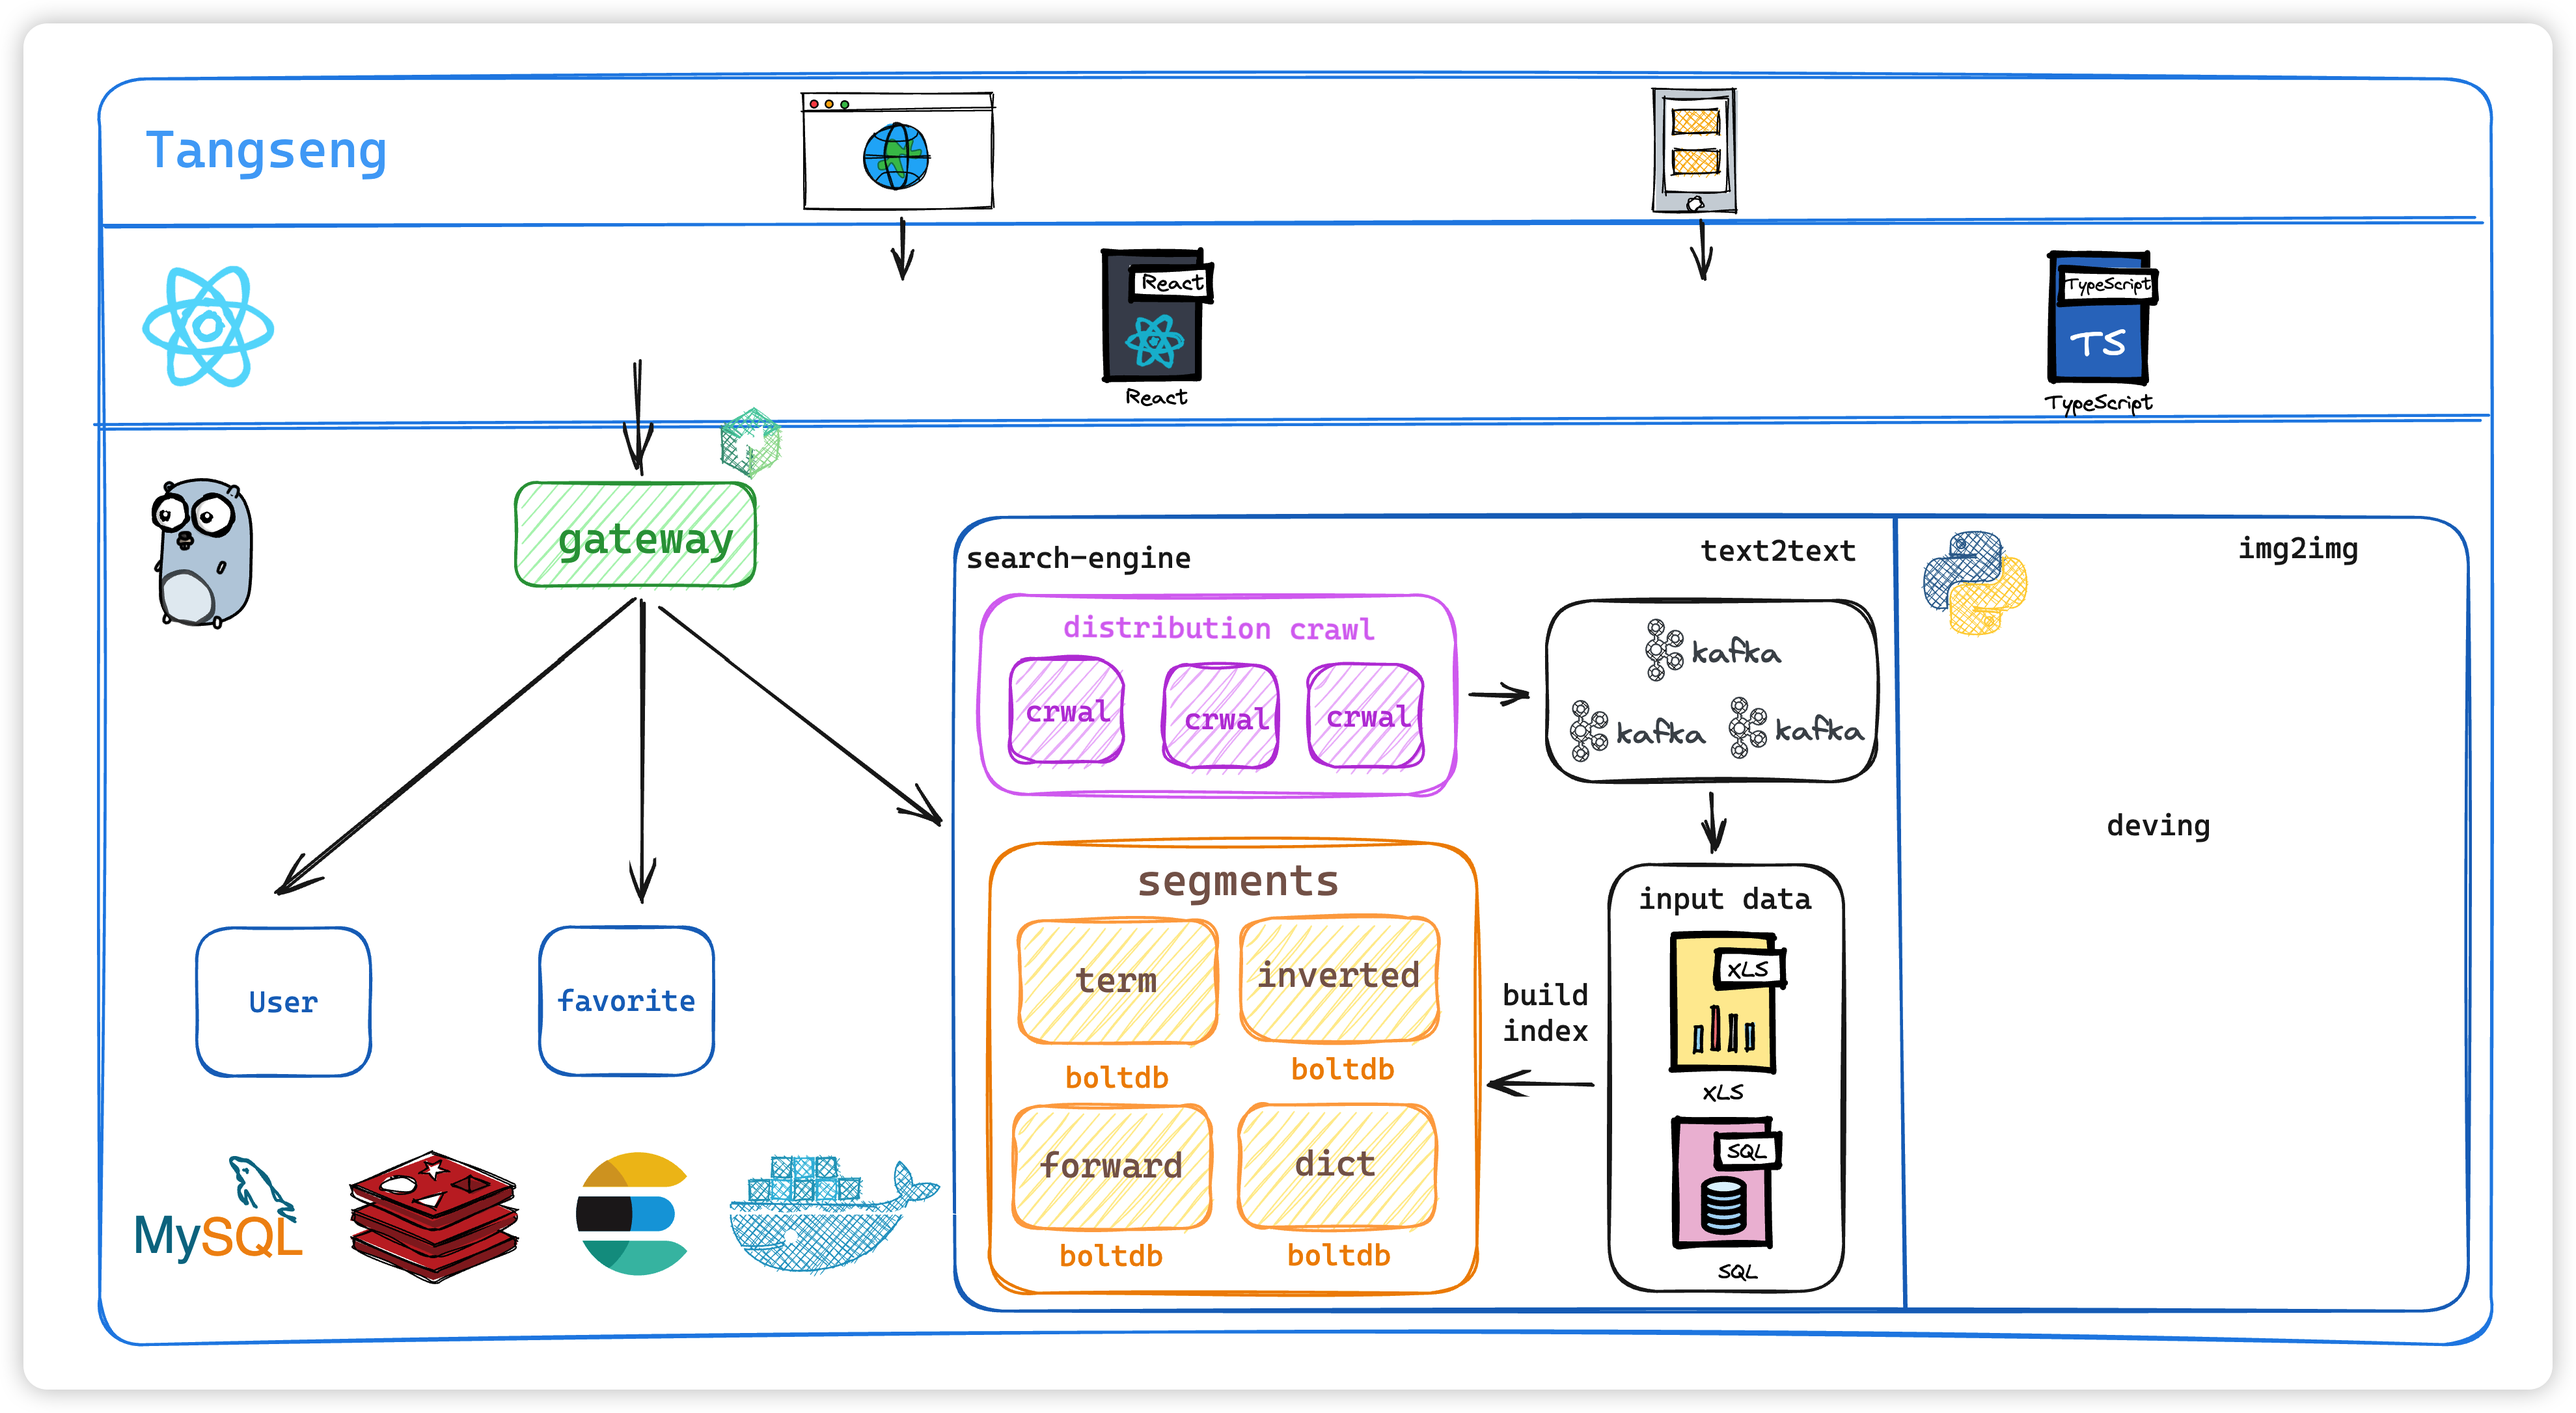
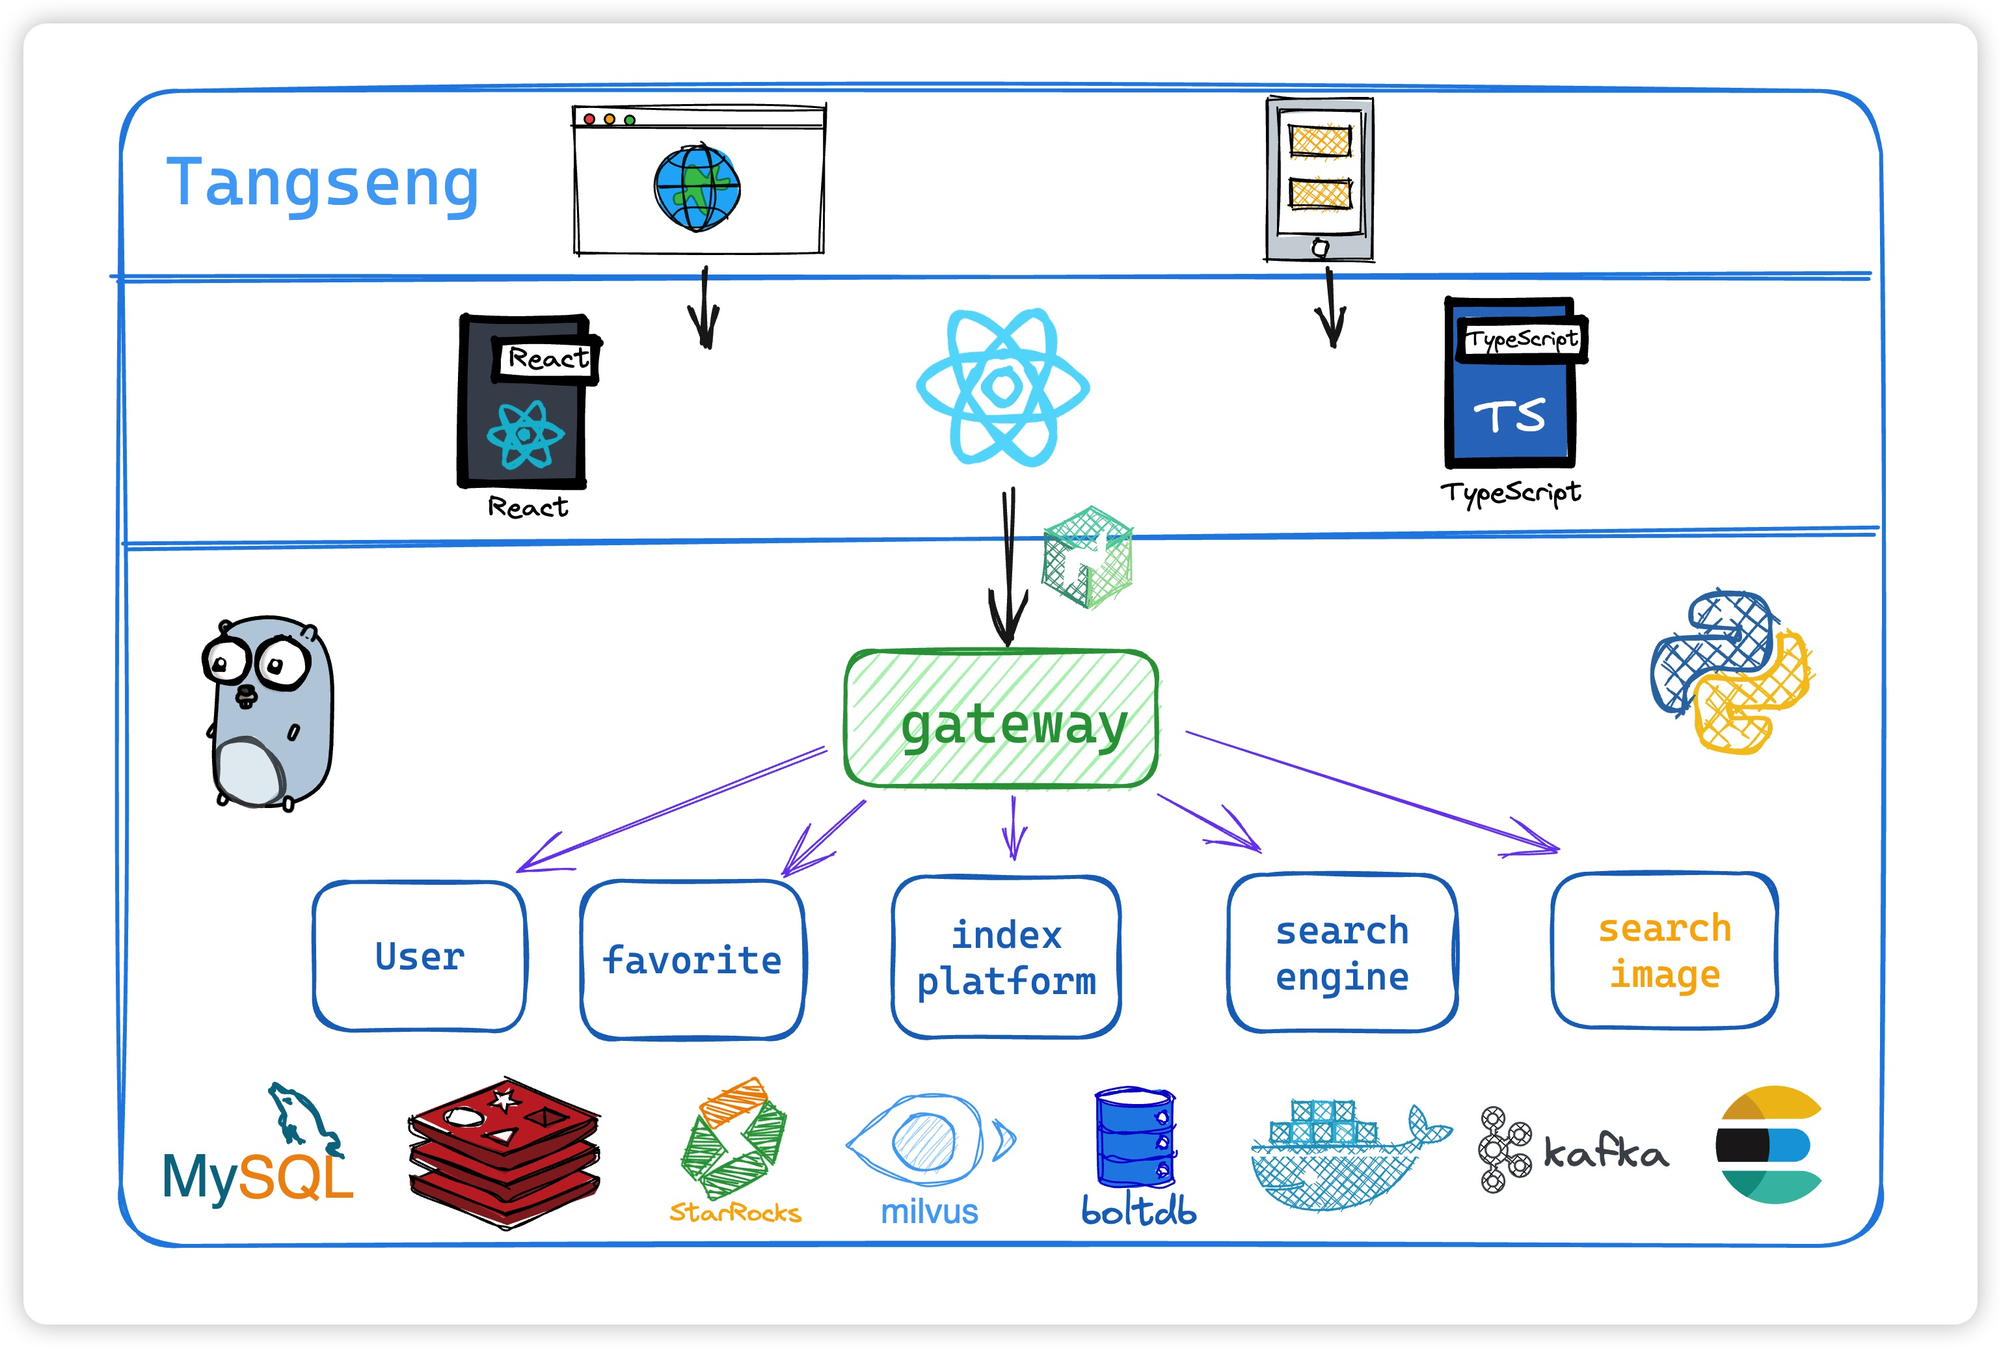
update:README.md

diff --git a/README.md b/README.md
@@ -3,11 +3,10 @@
 # 项目大体框架
 
 1、gin作为http框架，grpc作为rpc框架，etcd作为服务发现。\
-2、总体服务分成`用户模块`、`收藏夹模块`、`搜索引擎模块`。\
-3、用户模块和收藏夹模块使用共同的数据库。\
-4、分布式爬虫爬取数据，并发送到kafka集群中，再落库消费。 \
-5、搜索引擎模块的文本搜索单独设立使用boltdb存储index。\
-6、图片搜索待定...
+2、总体服务分成`用户模块`、`收藏夹模块`、`索引平台`、`搜索引擎(文字模块)`、`搜索引擎(图片模块)`。\
+3、分布式爬虫爬取数据，并发送到kafka集群中，再落库消费。 \
+4、搜索引擎模块的文本搜索单独设立使用boltdb存储index。\
+5、图片搜索待定...
 
 ![项目大体框架](doc/tangseng.png)
 
@@ -30,7 +29,7 @@
 ### 3.1 文本检索
 
 > * x.inverted 存储倒排索引文件
-> * x.dict 存储词典trie树
+> * x.trie_tree 存储词典trie树
 
 #### 正排库
 
@@ -51,7 +50,7 @@
 
 - [ ] 引入降级熔断
 - [ ] 引入jaeger进行链路追踪
-- [ ] 引入skywalking进行监控
+- [ ] 引入skywalking or prometheus进行监控
 - [ ] 抽离dao的init，用key来获取相关数据库实例
 
 #### 2.功能相关
@@ -59,6 +58,9 @@
 - [x] 构建索引的时候太慢了.后面加上并发，建立索引的地方加上并发
 - [ ] 索引压缩，inverted index，也就是倒排索引表，后续改成存offset,用mmap
 - [x] 相关性的计算要考虑一下，TFIDF，bm25
+- [x] 使用前缀树存储联想信息
+- [ ] 哈夫曼编码压缩前缀树
+- [ ] inverted 和 trie tree 的存储支持一致性hash分片存储
 - [ ] 词向量，pagerank
 - [x] 分词加入ik分词器
 - [x] 构建索引平台，计算存储分离，构建索引与召回分开
@@ -72,7 +74,7 @@
 - [ ] 实现TF类
 - [ ] 所有的输入数据都收口到starrocks，从starrocks读取来构建索引
 - [x] 搜索完一个接着搜索，没有清除缓存导致结果是和上一个产生并集
-- [ ] 排序器的排序不够(w1*tf+w2*bm25+other?)...
+- [x] 排序器优化
 
 ![文本搜索](doc/text2text.jpg)
 
@@ -99,7 +101,11 @@ tangseng/
 ├── app                   // 各个微服务
 │   ├── favorite          // 收藏夹
 │   ├── gateway           // 网关
-│   ├── search-engine     // 搜索微服务
+│   ├── index_platform    // 索引平台
+│   ├── mapreduce         // mapreduce 服务(已弃用)
+│   ├── gateway           // 网关
+│   ├── search_engine     // 搜索微服务(文本)
+│   ├── search_img        // 搜索微服务(图片)
 │   └── user              // 用户模块微服务
 ├── bin                   // 编译后的二进制文件模块
 ├── config                // 配置文件
@@ -110,12 +116,14 @@ tangseng/
 ├── loading               // 全局的loading，各个微服务都可以使用的工具
 ├── logs                  // 放置打印日志模块
 ├── pkg                   // 各种包
+│   ├── bloom_filter      // 布隆过滤器
 │   ├── ctl               // 用户信息相关
 │   ├── discovery         // etcd服务注册、keep-alive、获取服务信息等等
 │   ├── es                // es 模块
 │   ├── jwt               // jwt鉴权
 │   ├── kfk               // kafka 生产与消费
 │   ├── logger            // 日志
+│   ├── mapreduce         // mapreduce服务
 │   ├── res               // 统一response接口返回
 │   ├── retry             // 重试函数
 │   ├── trie              // 前缀树
@@ -157,21 +165,29 @@ seach-engine/
 ├── analyzer              // 分词器
 ├── cmd                   // 启动入口
 ├── data                  // 数据层
-├── engine                // 搜索引擎
-├── inputdata             // 处理各种数据源
-├── logic                 // 共有逻辑
 ├── ranking               // 排序器
-├── recall                // 召回层
 ├── respository           // 存储信息
 │   ├── spark             // spark 存储,后续支持...
 │   └── storage           // boltdb 存储(后续迁到spark)
-├── script                // 脚本
-│   ├── crwal             // 分布式爬虫(还没时间写)
-│   └── index             // 索引建立脚本
-├── segment               // 主数据分块
 ├── service               // 服务
 ├── test                  // 测试文件
 └── types                 // 定义的结构体
+```
+
+## 5. index platform索引平台
+
+```
+seach-engine/
+├── analyzer              // 分词器
+├── cmd                   // 启动入口
+├── consts                // 放置常量
+├── crawl                 // 分布式爬虫
+├── input_data            // csv文件(爬虫未实现)
+├── respository           // 存储信息
+│   ├── spark             // spark 存储,后续支持...
+│   └── storage           // boltdb 存储(后续迁到spark)
+├── service               // 服务
+└── trie                  // 存放trie树
 ```
 
 # 项目文件配置
